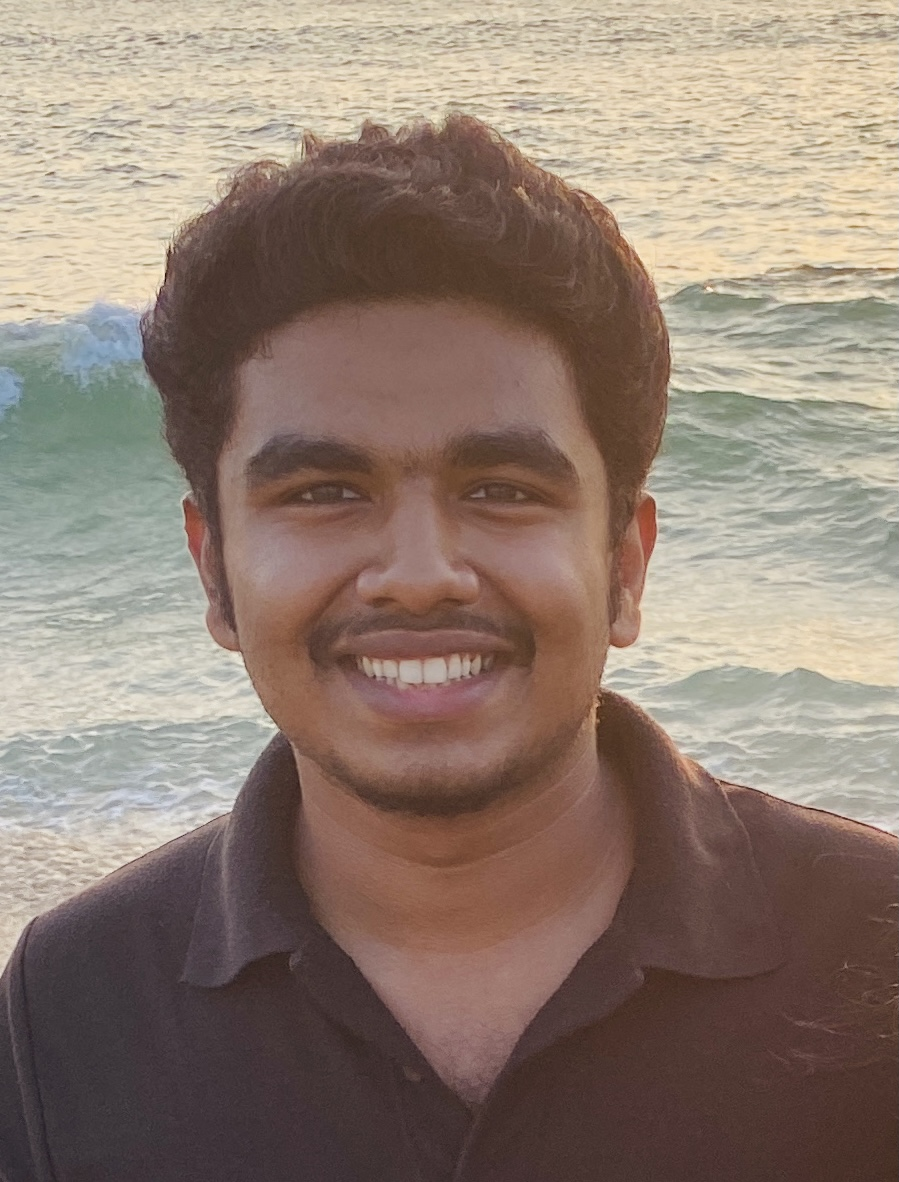
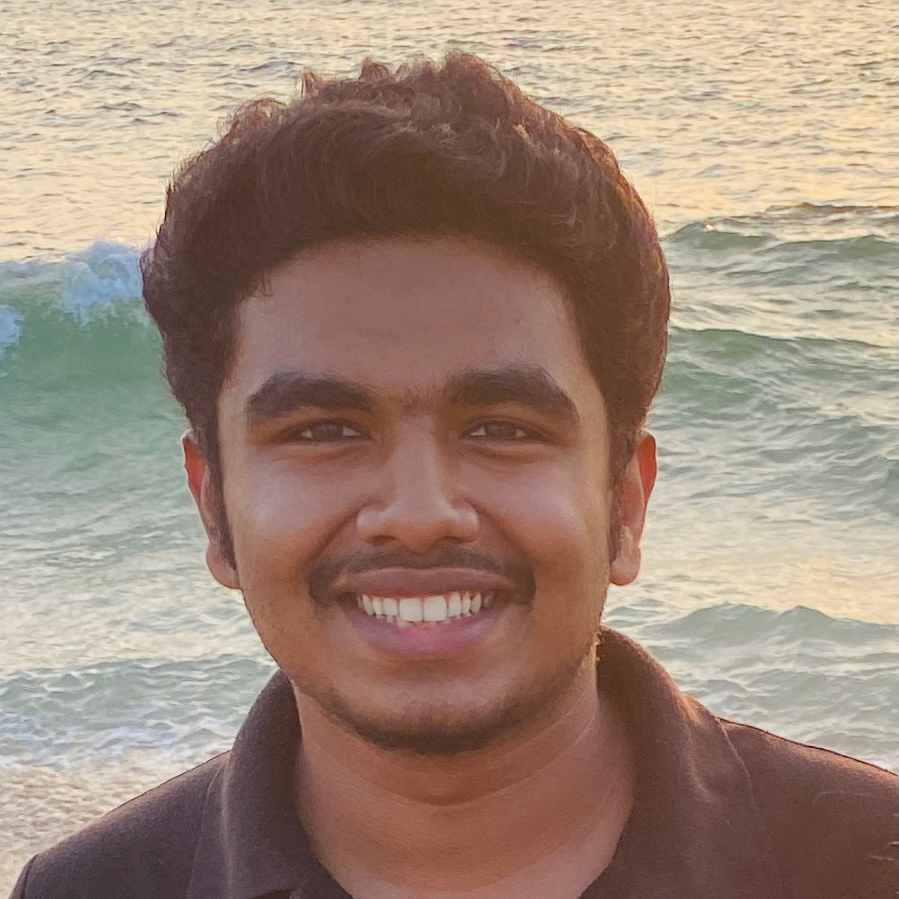
Modify rep images

diff --git a/src/pages/index.js b/src/pages/index.js
@@ -26,36 +26,35 @@ export default function Home() {
                             <div className="subtitle">College of Engineering Trivandrum</div>
                         </div>
                         <div className="desc">
-                            <div className="mb-4">
+                            <div className="mb-3">
                                 We at CET believe in fostering the three factors that in amalgamation prompts success:
                                 Ability, Motivation and Attitude. CET's placement process aims to match the requirements
                                 of recruiters and the aspirations of students.
                             </div>
-                            <div className="width-sp">
-                                <Link to="/about-cgpu" className="btn learnbtn">
-                                    Learn More
-                                </Link>
-
-                                <a href={`CET @ Glance.pdf`} download className="download px-4 py-2">
-                                    Download Brochure
-                                </a>
+                            <div className="d-flex flex-wrap text-center justify-content-center justify-content-md-start">
+                                <div className="my-2 mx-3 ms-md-0 me-md-4">
+                                    <Link to="/about-cgpu" className="btn learnbtn">
+                                        Learn More
+                                    </Link>
+                                </div>
+                                <div className="my-2 mx-3 mx-md-0 d-flex align-items-center">
+                                    <a href={`CET @ Glance.pdf`} download className="download learnLink">
+                                        Download Brochure
+                                    </a>
+                                </div>
                             </div>
                         </div>
                     </div>
                 </div>
-                <div className="bluebox my-5 px-xl-3">
+                <div className="bluebox mt-4 mt-md-5 mb-5 px-xl-3">
                     Over the last 5 years, we have assisted
                     <b>
                         <span className="bigno"> 3000+</span> students
                     </b>{" "}
-                    in being placed in
+                    in being placed and acquiring internships at
                     <b>
                         <span className="bigno"> 150+</span> companies{" "}
                     </b>
-                    {/* at an average salary of{" "}
-                    <b>
-                        <span className="bigno">₹9.6 </span>LPA
-                    </b> */}
                 </div>
                 <ThingsVal />
             </div>

diff --git a/src/data/objectives.js b/src/data/objectives.js
@@ -1,20 +1,20 @@
 export const objectives = [
     {
-        title: "Guidance of Students in the Right Path",
-        content: "To provide proper mentorship to students, helping them to achieve their career prospectives",
+        title: "Expert Guidance for Students",
+        content: "Provide proper mentorship in order to help students achieve their desired career path",
     },
     {
         title: "Best Placements",
-        content: "To place students in respectable organizations through campus recruitment",
+        content: "Place students in respectable organizations through campus recruitment",
     },
     {
-        title: "Higher Studies",
+        title: "Higher Learning Opportunities",
         content:
-            "To give students an insight into the higher studies options in India and abroad and train them to excel in competitive exams like GRE, CAT, TOEFL, GMAT, etc.",
+            "Offer students an insight into possible advanced degree options available in India and abroad, and also provide training to excel in competitive examinations such as GATE, GRE, CAT, TOEFL, GMAT, etc.",
     },
     {
         title: "Industrial Training",
         content:
-            "To organize lectures, seminars, mock interviews and provide internships to students during course of study as well as offer them opportunities to work on research projects",
+            "Conduct lectures, seminars, mock interviews and provide industrial training to students during the course of their study in the institution and, in addition, offer research oriented project opportunities",
     },
 ];

diff --git a/src/data/people.js b/src/data/people.js
@@ -4,16 +4,10 @@ export const head = [
         title: "Dr. Sunil Kumar K",
         posi: "Training and Placement Officer",
         mail: "placement@cet.ac.in",
-    }
-];
-    
-export const reps = [
-    {
-        img: "https://i.pravatar.cc/250",
-        title: "Lakshmi U G",
-        posi: "Computer Science and Engineering",
-        // mail: "placement@cet.ac.in",
     },
+];
+
+export const reps = [
     {
         img: "/repImg/ancil.jpg",
         title: "Ancil Tom Assisi",
@@ -21,7 +15,7 @@ export const reps = [
         // mail: "placement@cet.ac.in",
     },
     {
-        img: "https://i.pravatar.cc/250",
+        img: "/repImg/abhirami.jpg",
         title: "Abhirami N P",
         posi: "Civil Engineering",
         // mail: "placement@cet.ac.in",
@@ -32,7 +26,7 @@ export const reps = [
         posi: "Applied Electronics and Instrumentation",
         // mail: "placement@cet.ac.in",
     },
-    
+
     {
         img: "/repImg/arya.jpg",
         title: "Arya Raj M",
@@ -52,7 +46,13 @@ export const reps = [
         // mail: "placement@cet.ac.in",
     },
     {
-        img: "https://i.pravatar.cc/250",
+        img: "/repImg/lakshmi.jpg",
+        title: "Lakshmi U G",
+        posi: "Computer Science and Engineering",
+        // mail: "placement@cet.ac.in",
+    },
+    {
+        img: "/repImg/munavar.jpg",
         title: "Munavar T P",
         posi: "Civil Engineering",
         // mail: "placement@cet.ac.in",

diff --git a/src/components/things-val.js b/src/components/things-val.js
@@ -15,7 +15,7 @@ const ThingsVal = () => {
                     </div>
                     <div className="px-5 py-4 py-md-0 text-center text-md-end order-md-1">
                         <h4>Our Vision</h4>
-                        <div className="text" style={{ textAlign: "left" }}>
+                        <div className="text">
                             National Level Excellence and International visibility in every facet of Engineering
                             Research and Education.
                         </div>

diff --git a/src/components/footer.js b/src/components/footer.js
@@ -16,7 +16,7 @@ export default function Footer() {
                         <Link to="/contact">Contact Us</Link>
                     </div>
                     <div className="col-6 col-sm-4 col-md-4 py-2">
-                        <h6 className="pb-3">Useful Links</h6>
+                        <h6 className="pb-3">Related Links</h6>
                         <a href="https://ktu.edu.in/" target="_blank" rel="noopener noreferrer">
                             Kerala Technological University
                         </a>

diff --git a/src/styles/index.css b/src/styles/index.css
@@ -38,9 +38,6 @@
 .desc {
     color: var(--blue-gray);
 }
-.width-sp {
-    width: 400px;
-}
 
 .learnbtn {
     background: var(--blue);
